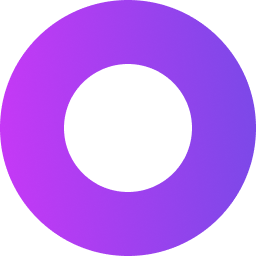
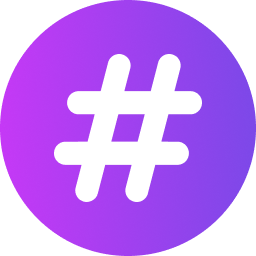
fix

Changed region(s): [[0.2812, 0.1875, 0.8125, 0.625], [0.1875, 0.375, 0.7188, 0.8125], [0.4375, 0.4375, 0.5625, 0.5625]]

diff --git a/public/popup.html b/public/popup.html
@@ -18,7 +18,7 @@
         .header {
             display: flex;
             align-items: center;
-            gap: 0.5rem;
+            gap: 0.4rem;
             user-select: none;
         }
 
@@ -103,7 +103,9 @@
         <div class="header">
             <svg width="24" height="24" viewBox="0 0 24 24" fill="none" xmlns="http://www.w3.org/2000/svg">
                 <rect width="24" height="24" rx="12" fill="url(#paint0_linear_2_42)" />
-                <circle cx="12" cy="12" r="6" fill="white" />
+                <path
+                    d="M13.5677 10.7149L12.9013 13.2826H10.4304L11.0955 10.7149H13.5677ZM17.8629 8.54636L16.3514 8.54512L16.902 6.42286C16.9745 6.14297 16.9351 5.85089 16.7914 5.60118C16.6464 5.35082 16.4137 5.17236 16.1352 5.09854C15.5566 4.94511 14.9729 5.29625 14.8241 5.87336L14.131 8.54512H11.6576L12.2082 6.42286C12.2807 6.14297 12.2413 5.85089 12.0976 5.60118C11.9526 5.35082 11.7199 5.17236 11.4414 5.09854C10.8742 4.9496 10.2804 5.29497 10.1303 5.87336L9.43723 8.54512L7.36553 8.54636C6.77292 8.54636 6.29096 9.03294 6.29096 9.63123C6.29096 10.2295 6.77292 10.7161 7.36553 10.7161L8.87514 10.7149L8.20877 13.2826L6.13708 13.2839C5.54447 13.2839 5.0625 13.7705 5.0625 14.3688C5.0625 14.967 5.54447 15.4536 6.13708 15.4536L7.64669 15.4524L7.09477 17.5779C7.02229 17.8578 7.06171 18.1498 7.20541 18.3996C7.35038 18.6499 7.5831 18.8284 7.86161 18.9022C8.42369 19.0473 9.02647 18.6936 9.17272 18.1274L9.86706 15.4524H12.3392L11.7873 17.5779C11.7148 17.8578 11.7542 18.1498 11.8979 18.3996C12.0429 18.6499 12.2756 18.8284 12.5541 18.9022C12.6432 18.9253 12.7347 18.9375 12.8263 18.9375C13.3146 18.9375 13.7419 18.6043 13.8653 18.1274L14.5596 15.4524L16.6345 15.4536C17.2271 15.4536 17.709 14.967 17.709 14.3688C17.709 13.7705 17.2271 13.2839 16.6345 13.2839L15.123 13.2826L15.7893 10.7149L17.8629 10.7161C18.4555 10.7161 18.9375 10.2295 18.9375 9.63123C18.9375 9.03294 18.4555 8.54636 17.8629 8.54636Z"
+                    fill="white" />
                 <defs>
                     <linearGradient id="paint0_linear_2_42" x1="-1.78814e-07" y1="24" x2="24.6166" y2="23.35"
                         gradientUnits="userSpaceOnUse">
@@ -113,7 +115,8 @@
                 </defs>
             </svg>
 
-            <h1 class="title">#hexPicker</h1>
+
+            <h1 class="title">hexPicker</h1>
         </div>
         <div id="picker_btn_cont"></div>
 

diff --git a/public/contentScript.js b/public/contentScript.js
@@ -12,7 +12,7 @@ chrome.runtime.onMessage.addListener((message, sender) => {
                 // Copy the color to the clipboard
                 navigator.clipboard.writeText(color).then(function() {
                     // Success feedback
-                    // alert(`Color ${color} copied to clipboard`);
+                    alert(`Color ${color} copied to clipboard`);
                 }, function(err) {
                     // Handle errors
                     console.error('Could not copy color: ', err);
